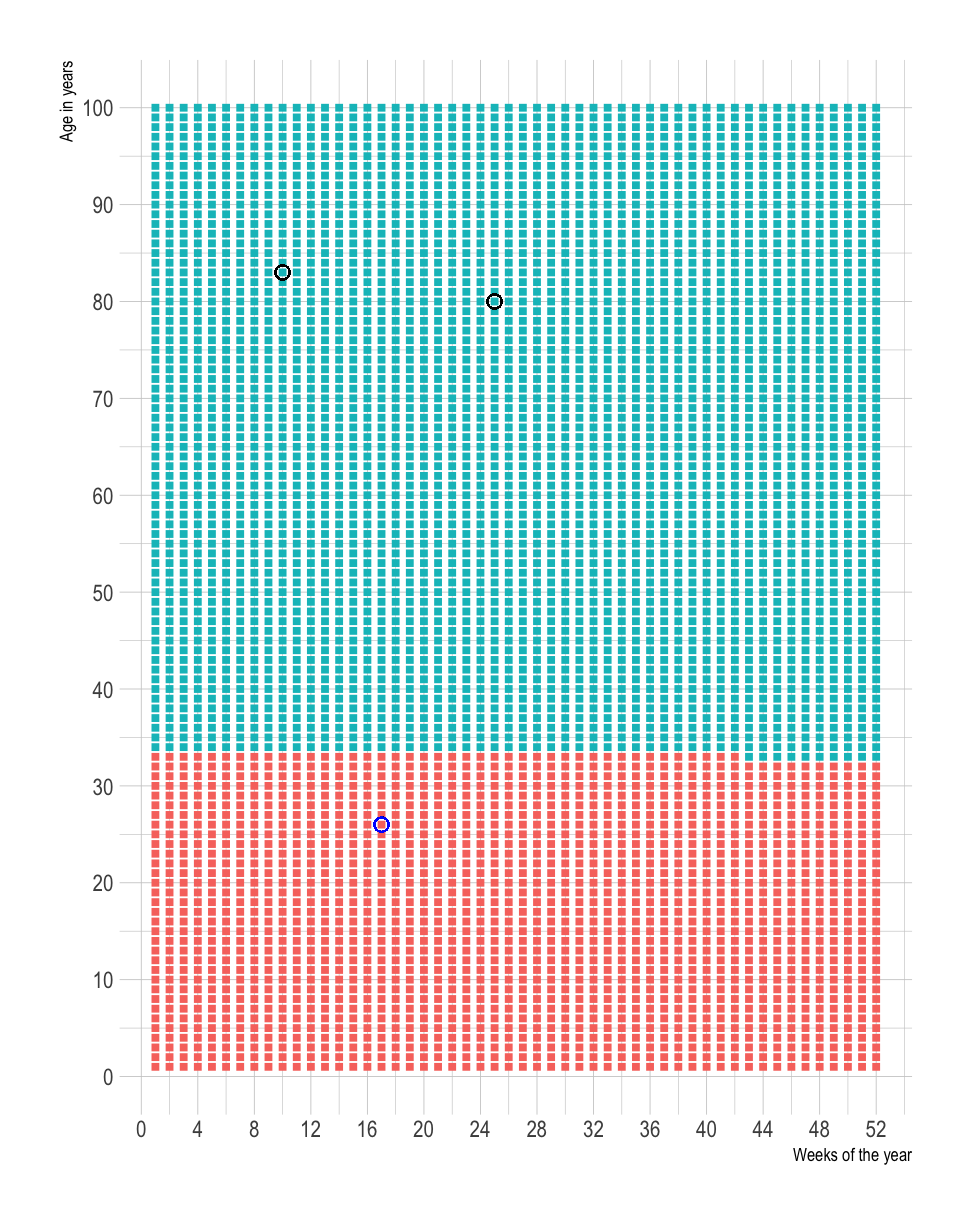
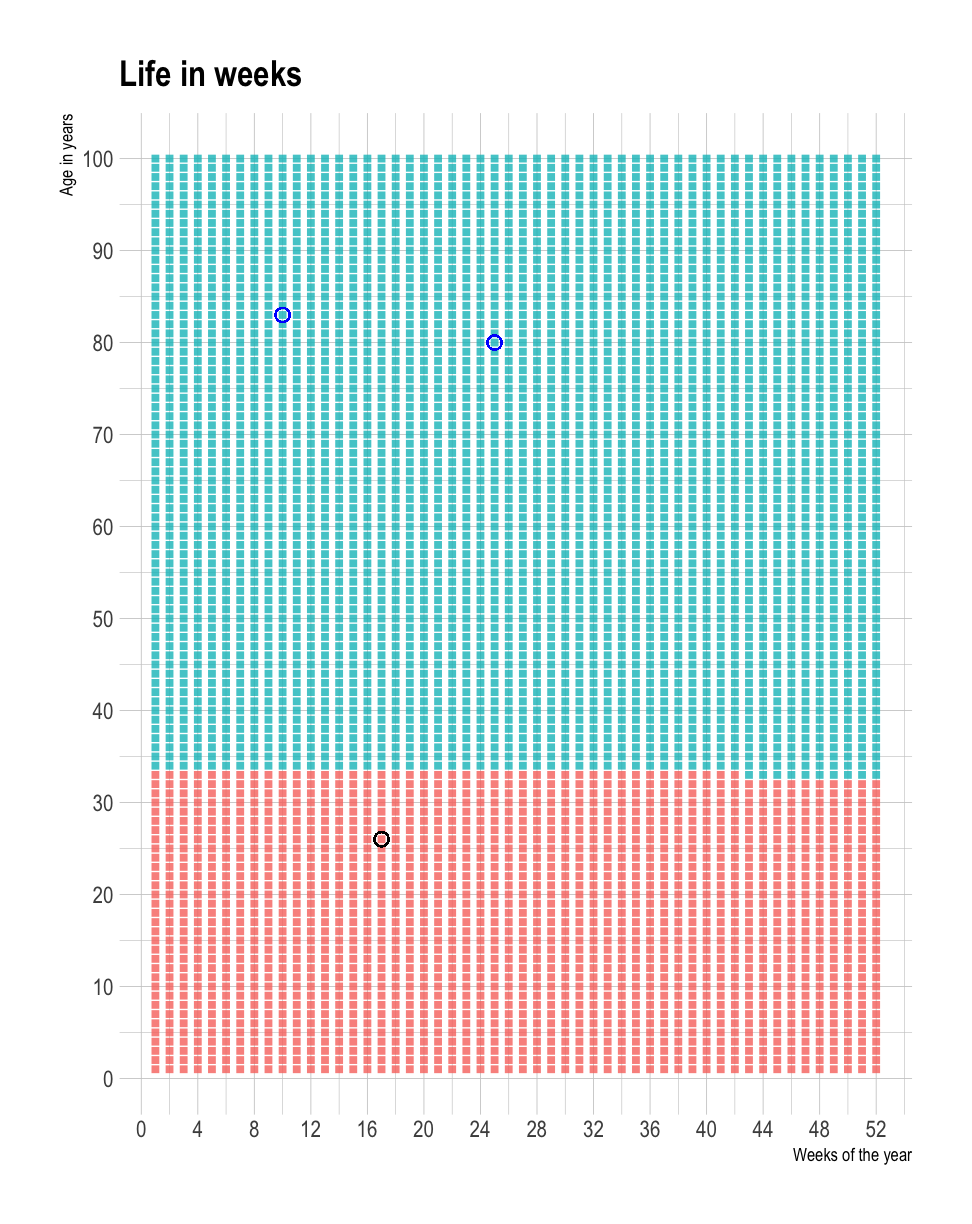
Updates to slides for week 2.

diff --git a/slides/02_dataviz.html b/slides/02_dataviz.html
@@ -73,13 +73,13 @@ class: left, middle, title-slide
 
 - Red: My life so far
 
-- Black dots: Life expectancy for men and women respectively
+- Blue circle: Life expectancy for men and women respectively
 
-- Blue circle: Einstein publishes his theory of special relativity
+- Black circle: Einstein publishes his theory of special relativity
 
-- Isn't this a very powerful visualizations?
+- Why is this visualization powerful?
 
-&lt;br&gt;&lt;br&gt;&lt;br&gt;
+&lt;br&gt;&lt;br&gt;&lt;br&gt;&lt;br&gt;
 
 Idea: https://waitbutwhy.com/2014/05/life-weeks.html
 ]
